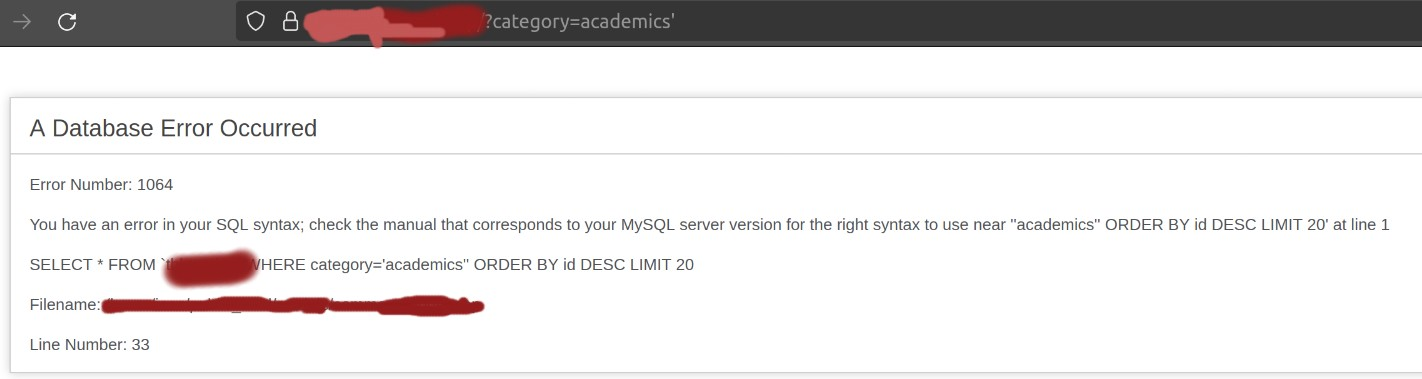
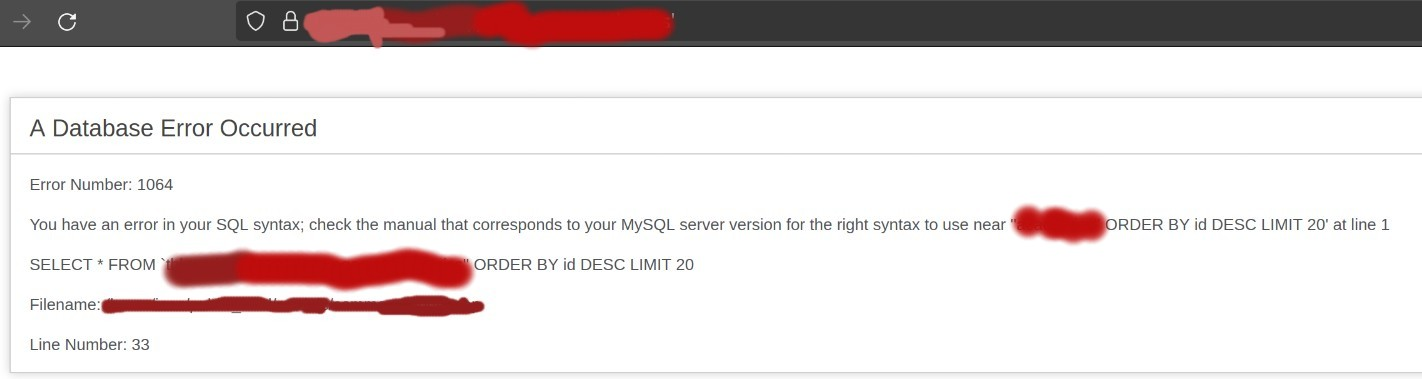
writeups

Changed region(s): [[0.1547, 0.6385, 0.3404, 0.7836], [0.3094, 0.0, 0.4951, 0.1451], [0.7117, 0.5224, 0.8045, 0.6675]]

diff --git a/_posts/2025-10-28-myFirstHack.md b/_posts/2025-10-28-myFirstHack.md
@@ -18,9 +18,9 @@ This is the story of everything about my first hack, which I discovered two year
 Back when I was just learning about the **SQL Injection**, I had the curiosity: *What If I tried it on the real website?* I do surely knew the risk, so I decided it to test it carefully and ethically.
 
 I came across a website belonging to a top Universities. While exploring different endpoints, one caught my attention:
-**?categories=academics** in get request.
+**?q=parameter** in get request.
 
-So, I don't know why it looks familiar for me by doing lots of labs at that time,just like the examples I had been studying. So now I tried a simple **`'`single quote** to test for the Sqli. So what I did was: **?categories=academics'** {notice single quote after academics, that what breaks the sql code}
+So, I don't know why it looks familiar for me by doing lots of labs at that time,just like the examples I had been studying. So now I tried a simple **`'`single quote** to test for the Sqli. So what I did was: **?q=parameter'** {notice single quote after academics, that what breaks the sql code}
 
 ![image](assets/images/sql_error.jpg)
 *Figure: **SQL error message after injecting a single quote**.*
